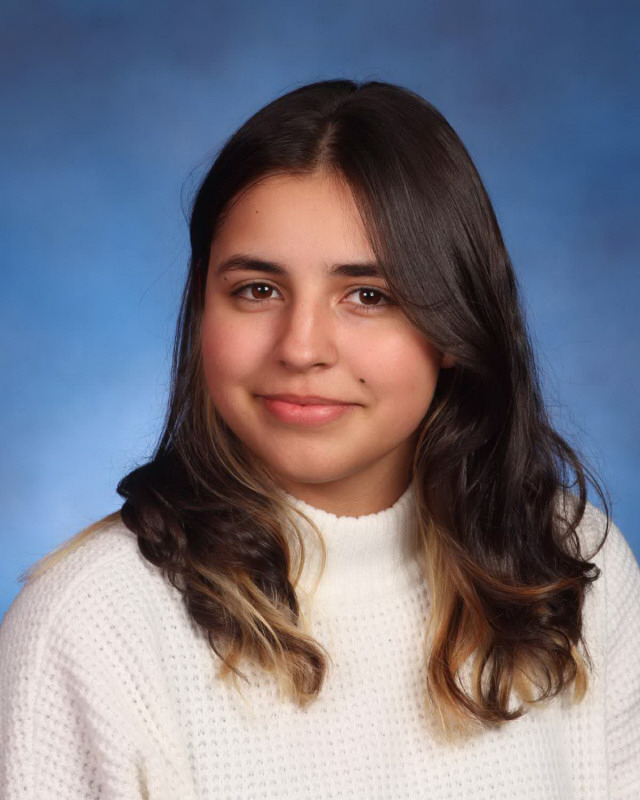
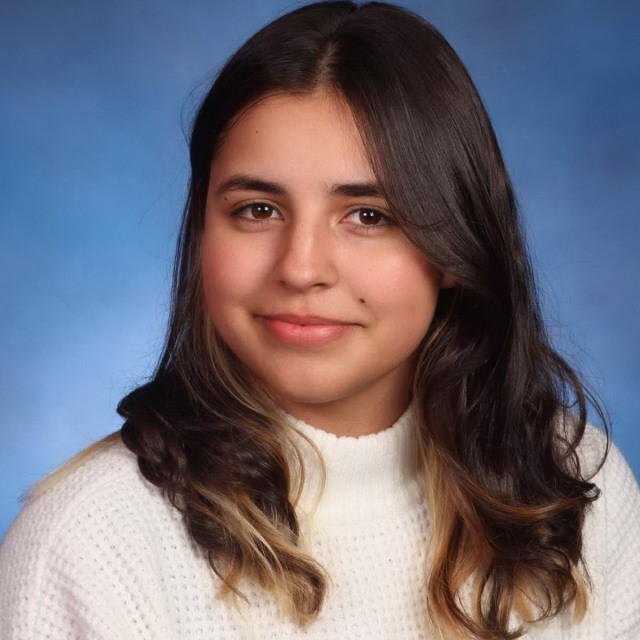
Properly cropped leadership photos

diff --git a/SnailSite/src/pages/leadershipProfiles.ts b/SnailSite/src/pages/leadershipProfiles.ts
@@ -10,6 +10,7 @@ import mikaela from "../assets/leadershipImages/mikaela.jpg";
 import mimi from "../assets/leadershipImages/mimi.jpg";
 import reva from "../assets/leadershipImages/reva.jpg";
 import santiago from "../assets/leadershipImages/santiago.jpg";
+import douglas from "../assets/leadershipImages/douglas.jpg"
 
 const leadership: LeaderProfilePropsList = [
   {
@@ -22,7 +23,7 @@ const leadership: LeaderProfilePropsList = [
     name: "Douglas Gee",
     position: "Vice President",
     schoolgrade: "MHS '26",
-    image: "https://placehold.co/600x600",
+    image: douglas,
   },
   {
     name: "Kamila Castro-Dworzynska",
@@ -68,6 +69,12 @@ const leadership: LeaderProfilePropsList = [
     image: jimit,
   },
   {
+    name: "Madelyn Lee",
+    position: "Design Manager",
+    schoolgrade: "AIT '25",
+    image: "https://placehold.co/600x600",
+  },
+  {
     name: "Michelle Chay",
     position: "Electronics Manager",
     schoolgrade: "MHS '25",
@@ -84,12 +91,6 @@ const leadership: LeaderProfilePropsList = [
     name: "Bowen Zhang",
     position: "Programming Co-Manager",
     schoolgrade: "MHS '27",
-    image: "https://placehold.co/600x600",
-  },
-  {
-    name: "Madelyn Lee",
-    position: "Design Manager",
-    schoolgrade: "AIT '25",
     image: "https://placehold.co/600x600",
   },
   {
